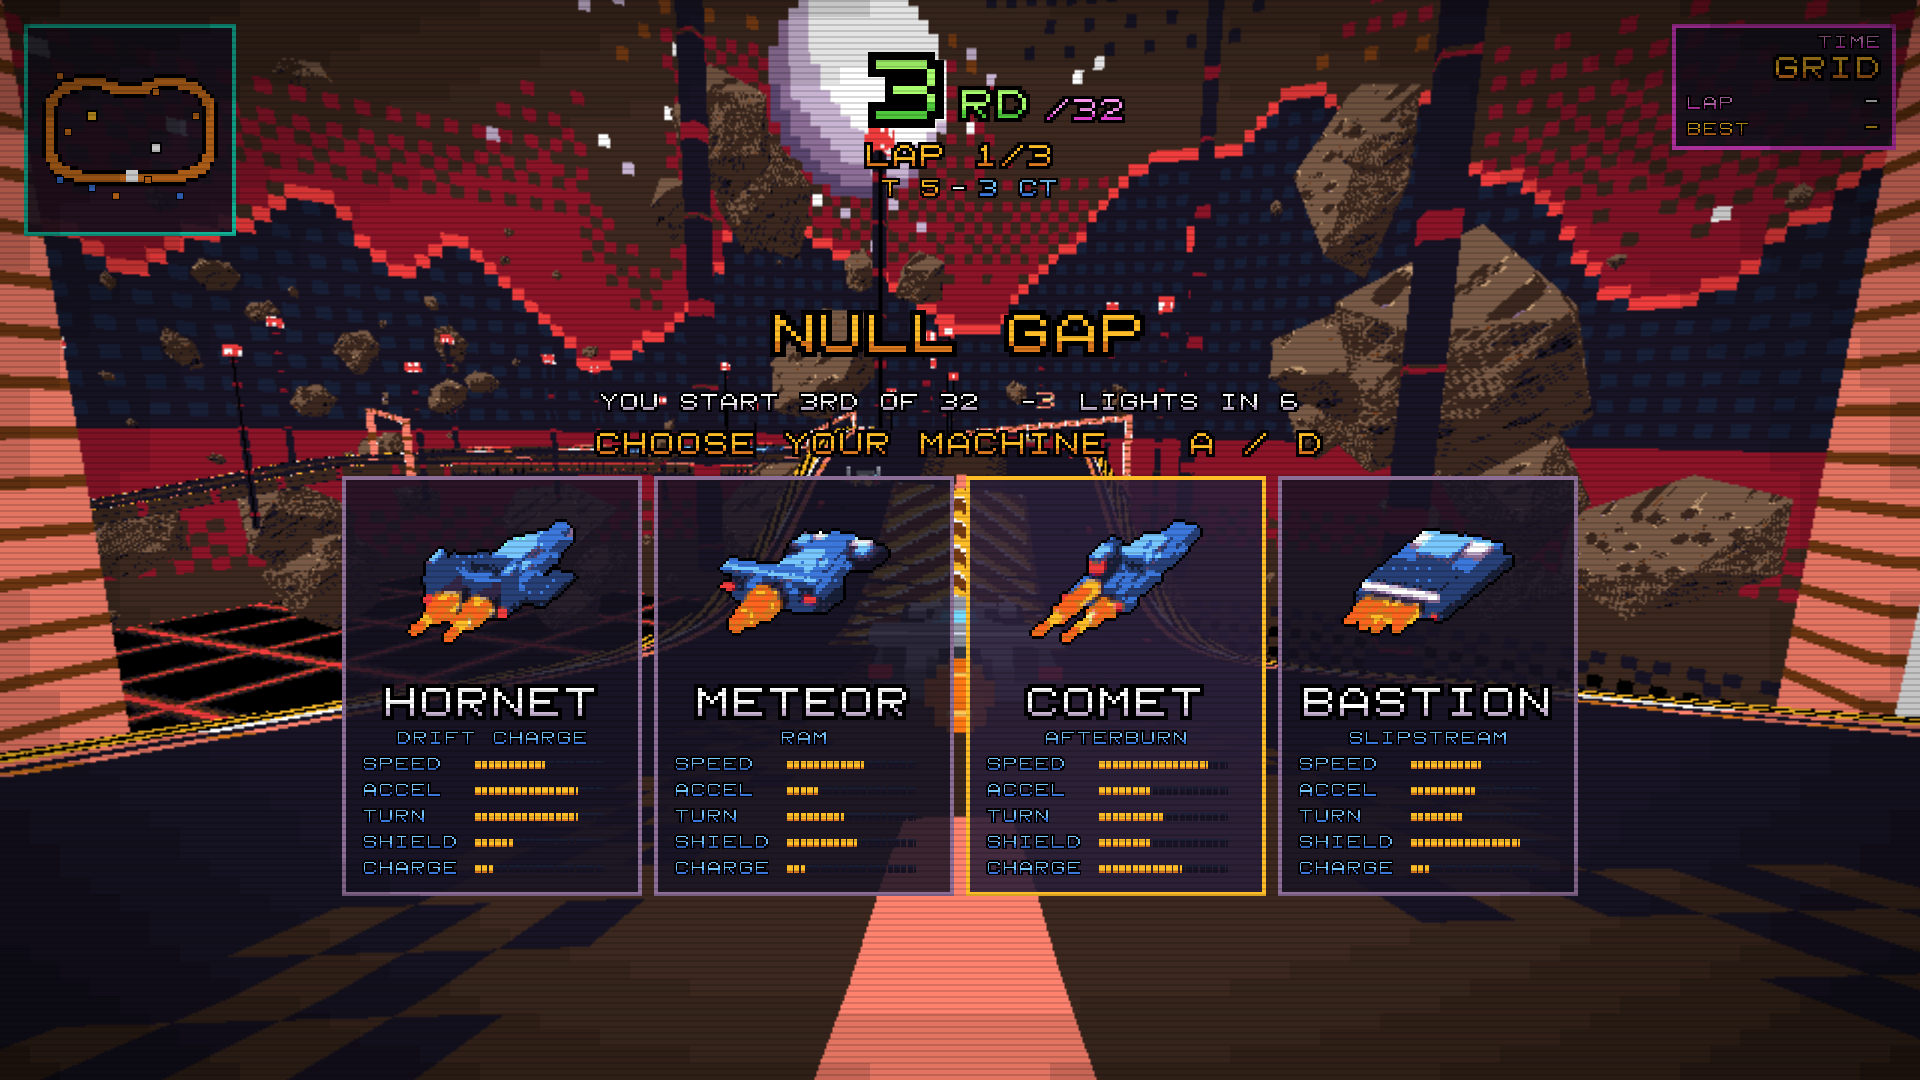
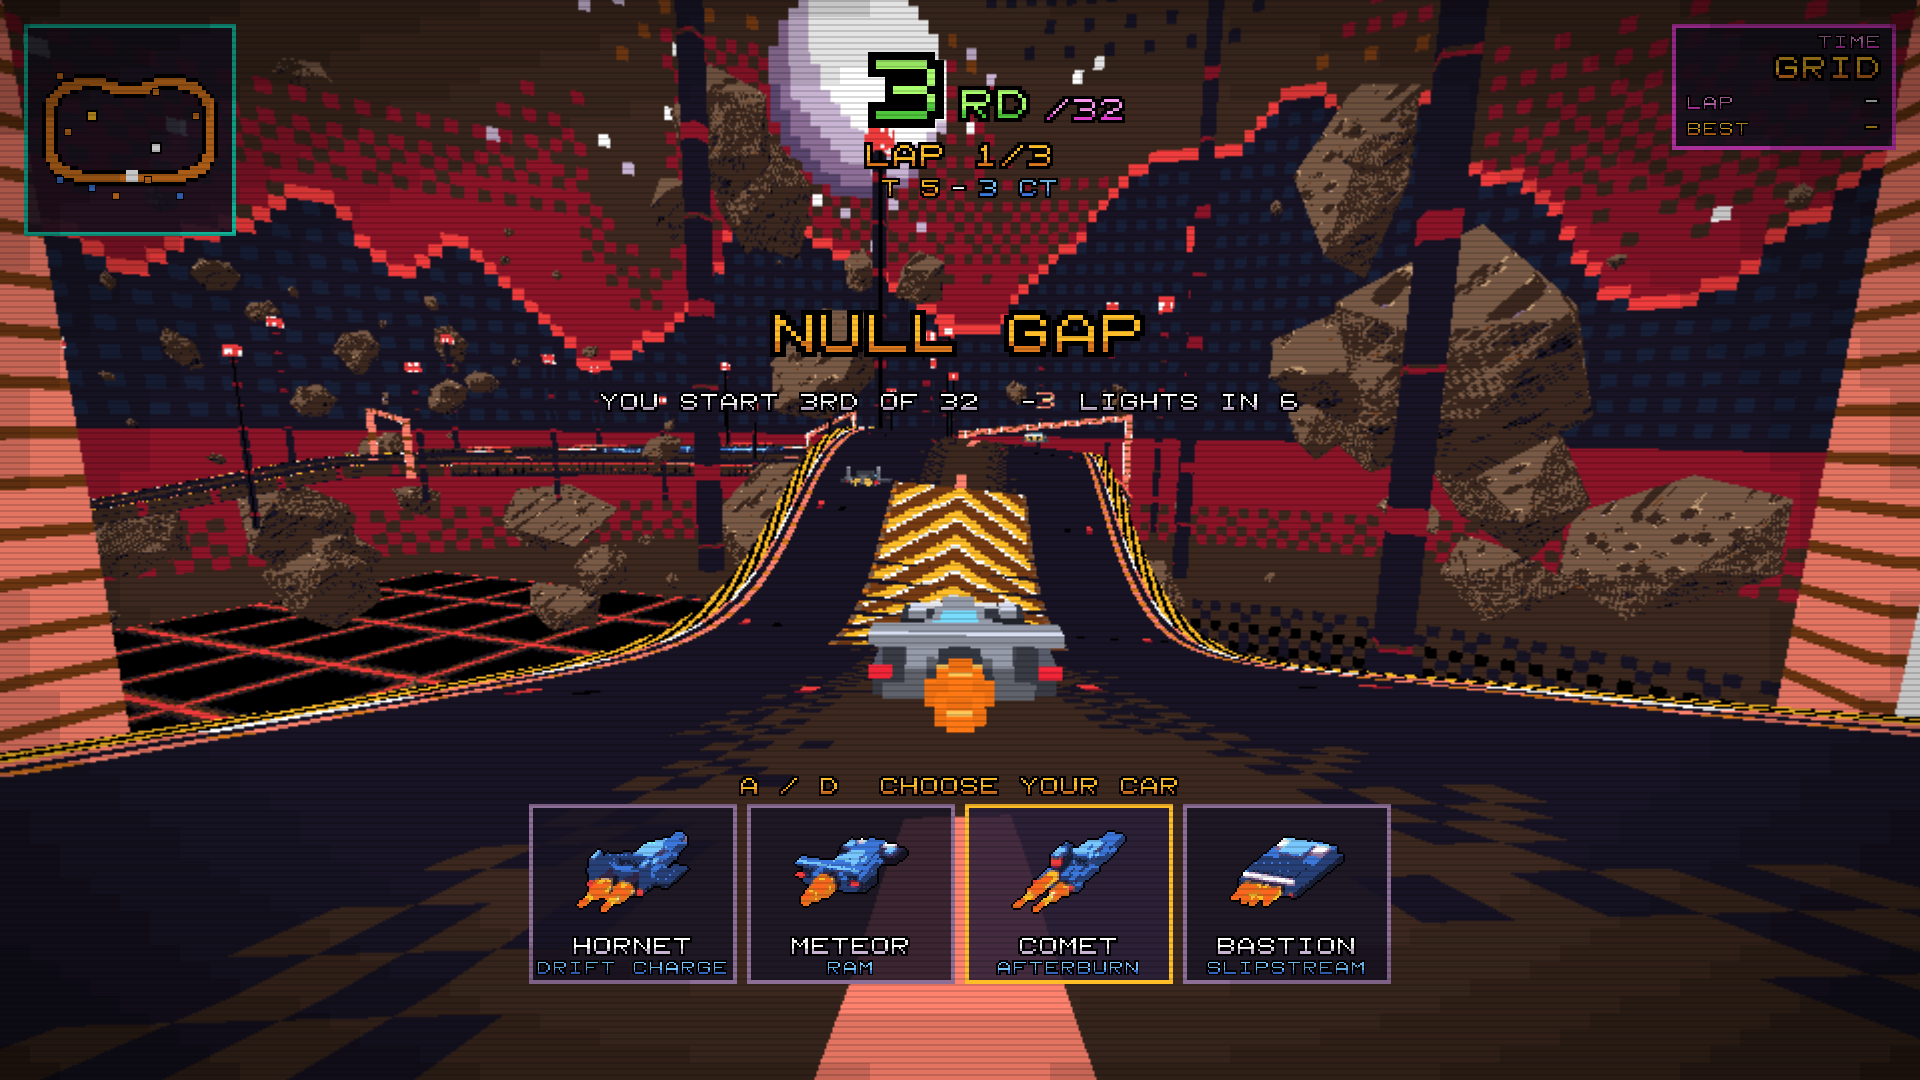
Grid car picker as a row of small cards along the bottom, so the flyover shows the field
Claude-Session: https://claude.ai/code/session_01LHweMRZoWAx6s1kgPwXLL2

Changed region(s): [[0.1562, 0.3972, 0.8438, 0.9167]]

diff --git a/src/cs2/30_hud.js b/src/cs2/30_hud.js
@@ -116,14 +116,17 @@ function hudOff(slot) {
 
 function pct(v, max) { return 'w' + clamp(Math.round(v / Math.max(1, max) * 20), 0, 20); }
 
-// the car picker: four cards, the chosen one highlighted; pictures in the player's side colour
+// the car picker: four cards, the chosen one highlighted; pictures in the player's side colour.
+// show: true / 'big' = the big cards (lobby, watching), 'mini' = the small row along the bottom (grid flyover),
+// false = none
 function hudPicker(slot, pe, show) {
-  hudSwap(slot, 'spr_root', show ? 'stPick' : null, 'pick');
+  const mini = show === 'mini';
+  hudSwap(slot, 'spr_root', show ? (mini ? 'stPickMini' : 'stPick') : null, 'pick');
   if (!show) return;
   const side = pe.csTeam === 2 ? 't' : pe.csTeam === 3 ? 'ct' : 'neutral';
   CAR_KEYS.forEach((k, i) => {
-    hudSwap(slot, 'spr_card' + i, pe.carChoice === k ? 'sel' : null);
-    hudSwap(slot, 'spr_cimg' + i, 'pic_' + k + '_' + side);
+    hudSwap(slot, (mini ? 'spr_mcard' : 'spr_card') + i, pe.carChoice === k ? 'sel' : null);
+    hudSwap(slot, (mini ? 'spr_mimg' : 'spr_cimg') + i, 'pic_' + k + '_' + side);
   });
 }
 

diff --git a/src/cs2/60_main.js b/src/cs2/60_main.js
@@ -539,7 +539,7 @@ function frame(dt) {
         else placeCamera(pk, pe.car, v, dt, pe.cam, pe.tilt);
         if (!hudTurn(pe.slot)) return;
         hudRace(pe.slot, pe.car, a, raceInfo(pe, pe.car, a, now, false));
-        hudPicker(pe.slot, pe, a.state === 'grid' && a.countdown > 3 * TICRATE);
+        hudPicker(pe.slot, pe, a.state === 'grid' && a.countdown > 3 * TICRATE ? 'mini' : false);
       } else {
         // spectators and people waiting for the next race
         if (!pe.spec) rm.spectate(pe);

diff --git a/tools/hud.py b/tools/hud.py
@@ -207,7 +207,7 @@ save(RES, 'logo_results.png')
 
 # picker car pictures: pixelated versions of cars.py's renders (they are smooth), quantised to the palette and saved
 # at exactly the size the card shows them (64 x 64 pixels, 3x = 192) so they stay crisp
-PIC = 192
+PIC, MPIC = 192, 128
 for k in KEYS:
     for side in ('neutral', 't', 'ct'):
         p = os.path.join(IMGDIR, 'car_%s_%s.png' % (k, side))
@@ -222,6 +222,7 @@ for k in KEYS:
         edge = o & ~a
         q[edge, :3] = BLACK; q[edge, 3] = 255
         save(up(q, PIC // 64), 'pcar_%s_%s.png' % (k, side))
+        save(up(q, MPIC // 64), 'pcars_%s_%s.png' % (k, side))      # the small grid picker's picture
 
 # ---------------------------------------------------------------- base: wrappers, the Screen, full-screen layers
 # The script puts state classes on spr_root: stOn (racing / watching), stLobby, stPick (car picker), stHelp, stRes
@@ -232,7 +233,7 @@ for k in KEYS:
 rule('.SprWrap', width='100%', height='100%')
 rule('.SprOpts', width='100%', height='100%')
 rule('.SprRoot', width='100%', height='100%', opacity='0')
-for c in ('stOn', 'stLobby', 'stPick', 'stHelp'):
+for c in ('stOn', 'stLobby', 'stPick', 'stPickMini', 'stHelp'):
     rule('.SprRoot.' + c, opacity='1')
 rule('.Screen', width='100%', height='1080px')
 rule('.Full', width='100%', height='100%')
@@ -248,9 +249,11 @@ rule('.SprRoot.stOn.stSpec .Bars', opacity='0.75')
 # while the car picker is up the bottom boxes and the standings make way for the cards (after stSpec: this one wins)
 for c in ('Bars', 'Speed', 'Stand'):
     rule('.SprRoot.stOn.stPick .' + c, opacity='0')
+    rule('.SprRoot.stOn.stPickMini .' + c, opacity='0')
 show_when('LobbyLines', 'stLobby')
 show_when('Logo', 'stLobby')
 show_when('Pick', 'stPick')
+show_when('PickMini', 'stPickMini')
 show_when('Help', 'stHelp')
 show_when('ResLogo', 'stRes')
 rule('.SprRoot.stOn.stRes .TopBlock', opacity='0')
@@ -449,6 +452,26 @@ PICK_W = 4 * (CARD_W + 2 * BORDER) + 3 * CARD_GAP
 pick = P('spr_pick', 'Pick ' + place(center=True, y=430, w=PICK_W, h=46 + CARD_H + 2 * BORDER + 20),
          [stext('CHOOSE YOUR MACHINE   A / D', 'M', 'Y', extra='blink', center=True, y=0)] + cards)
 
+# the small picker on the grid: four little cards along the bottom so the flyover's view of the field stays clear
+MC_W, MC_H, MC_GAP = 200, 172, 10
+rule('.MCard.sel', transform='scale3d(1.06, 1.06, 1)', border='%dpx solid %s' % (BORDER, hexc(FRAME['gold'])), background_color='#2a1f3ae0')
+rule('.MCard.sel .MCarPic', animation_name='sprpulse', animation_duration='0.9s', animation_iteration_count='infinite')
+rule('.MCarPic', background_size='100% 100%', background_repeat='no-repeat')
+for k in KEYS:
+    for side in ('neutral', 't', 'ct'):
+        rule('.MCarPic.pic_%s_%s' % (k, side), background_image='url("%spcars_%s_%s.png")' % (IMG, k, side))
+mcards = []
+for i, k in enumerate(KEYS):
+    c = cars[k]
+    mcards.append(P('spr_mcard%d' % i, box('MCard', 'white', MC_W, MC_H, x=i * (MC_W + 2 * BORDER + MC_GAP), y=28), [
+        P('spr_mimg%d' % i, 'MCarPic pic_%s_neutral ' % k + place(center=True, y=0, w=MPIC, h=MPIC)),
+        stext(c['name'], 'S', 'W', center=True, y=MPIC),
+        stext(c['perk'], 'XS', 'C', center=True, y=MPIC + 24),
+    ]))
+MPICK_W = 4 * (MC_W + 2 * BORDER) + 3 * MC_GAP
+pickmini = P('spr_mpick', 'PickMini ' + place(center=True, y=1080 - 96 - (28 + MC_H + 2 * BORDER), w=MPICK_W, h=28 + MC_H + 2 * BORDER),
+             [stext('A / D  CHOOSE YOUR CAR', 'S', 'Y', extra='blink', center=True, y=0)] + mcards)
+
 # ---------------------------------------------------------------- lobby: the logo and three pixel lines; results banner; help
 logo = P(None, 'Logo ' + place(center=True, y=70, w=LOGO.shape[1], h=LOGO.shape[0]))
 rule('.Logo', background_image='url("%slogo.png")' % IMG, background_size='100% 100%', background_repeat='no-repeat',
@@ -487,7 +510,7 @@ screen = P(None, 'Screen', [
     P(None, 'SpeedFx Full', [P(None, 'Speed0 Full'), P(None, 'Speed1 Full')]),
     logo, res, minimap, top, clock,
     *centre,
-    bars, speed, stand, resboard, lobby, pick, help_,
+    bars, speed, stand, resboard, lobby, pick, pickmini, help_,
     P(None, 'Vig Full'),
     P(None, 'Crt Full'),
 ])

diff --git a/preview/hud_render.py b/preview/hud_render.py
@@ -225,7 +225,7 @@ def dots(cells, me, lead):
 def race_state(grid=False, results=False):
     reset()
     add('spr_root', 'stOn')
-    if grid: add('spr_root', 'stPick')
+    if grid: add('spr_root', 'stPickMini')
     if results: add('spr_root', 'stRes')
     add('spr_mmimg', 'mm_oval')
     text('spr_pos', '3', 'green'); text('spr_suf', 'RD', 'green'); text('spr_posof', '/32', 'pink')
@@ -243,8 +243,8 @@ def race_state(grid=False, results=False):
         add('spr_rb7', 'me')
     if grid:
         text('spr_ctr', 'NULL GAP', 'gold'); text('spr_sub', 'YOU START 3RD OF 32  -  LIGHTS IN 6', 'white')
-        add('spr_card2', 'sel')
-        for i, k in enumerate(['hornet', 'meteor', 'comet', 'bastion']): swap('spr_cimg%d' % i, r'^pic_', 'pic_%s_ct' % k)
+        add('spr_mcard2', 'sel')
+        for i, k in enumerate(['hornet', 'meteor', 'comet', 'bastion']): swap('spr_mimg%d' % i, r'^pic_', 'pic_%s_ct' % k)
     elif not results:
         text('spr_ctr', 'WRONG WAY', 'red'); text('spr_msg', '+40 CHARGE FROM THE PULSE', 'cyan')
         add('spr_turn', 'l2')

diff --git a/docs/DESIGN.md b/docs/DESIGN.md
@@ -185,8 +185,8 @@ gold when boosting and pink on a charge platform), speed bottom-right, the top-8
 side-coloured tab per row, you highlighted), a pixelated track map top-left with a dot for every car in the race
 (T orange, CT blue, the leader gold, yours blinking white), centre messages (countdown, GO!, FINAL LAP, WRONG WAY
 blinking, WRECKED, FINISHED 3RD, LAP RECORD!; each new one pops in), the car picker (four framed cards, each with a pixel picture of the
-car in your side's colour, its perk and five stat bars; the chosen one gold and pulsing) in the lobby and on the
-grid, the SPACE RACER logo and three status lines in the lobby, a pulsing RESULTS banner over a results board at the end
+car in your side's colour, its perk and five stat bars; the chosen one gold and pulsing) in the lobby, and a row of
+four small cards along the bottom on the grid (so the flyover's view of the field stays clear), the SPACE RACER logo and three status lines in the lobby, a pulsing RESULTS banner over a results board at the end
 (top 8 with the winner's time and everyone else's gap, your own line swapped in if you placed lower), flickering
 pixel speed lines round the screen edges while boosting, and CRT scanlines plus a vignette over everything (`!crt`
 turns them off for you). `preview/hud_race.png`, `hud_grid.png`, `hud_lobby.png` show it.

diff --git a/docs/TESTING.md b/docs/TESTING.md
@@ -112,8 +112,9 @@ Rebuild fully after copying the files (`disconnect`, then load the map again) so
   same class name as the picker panel, so the whole HUD took the picker's layout. The layout is also fixed-size now.
 - **Car picker.** Lobby (`preview/hud_lobby.png`): logo, three lines, then four cards with a picture of each car in
   your side's colour, its perk and five stat bars; A / D moves the gold highlight. Grid (`preview/hud_grid.png`):
-  the track name, "YOU START 3RD OF 10 - LIGHTS IN 6", the cards; they go 3 seconds before the lights and the
-  bars / speed / standings come back. Watching a race: the cards show for 4 seconds after you press A / D.
+  the track name, "YOU START 3RD OF 10 - LIGHTS IN 6", and a row of four small cards along the bottom (the
+  flyover's view of the field stays clear); they go 3 seconds before the lights and the bars / speed / standings
+  come back. Watching a race: the cards show for 4 seconds after you press A / D.
 - **Countdown.** 3 / 2 / 1 in big red pixel digits in the middle of the screen, then GO!.
 - **Cars on the grid.** All cars visible on the grid from the moment the flyover reaches them (they were being
   teleported every tick, which CS2 doesn't draw).
